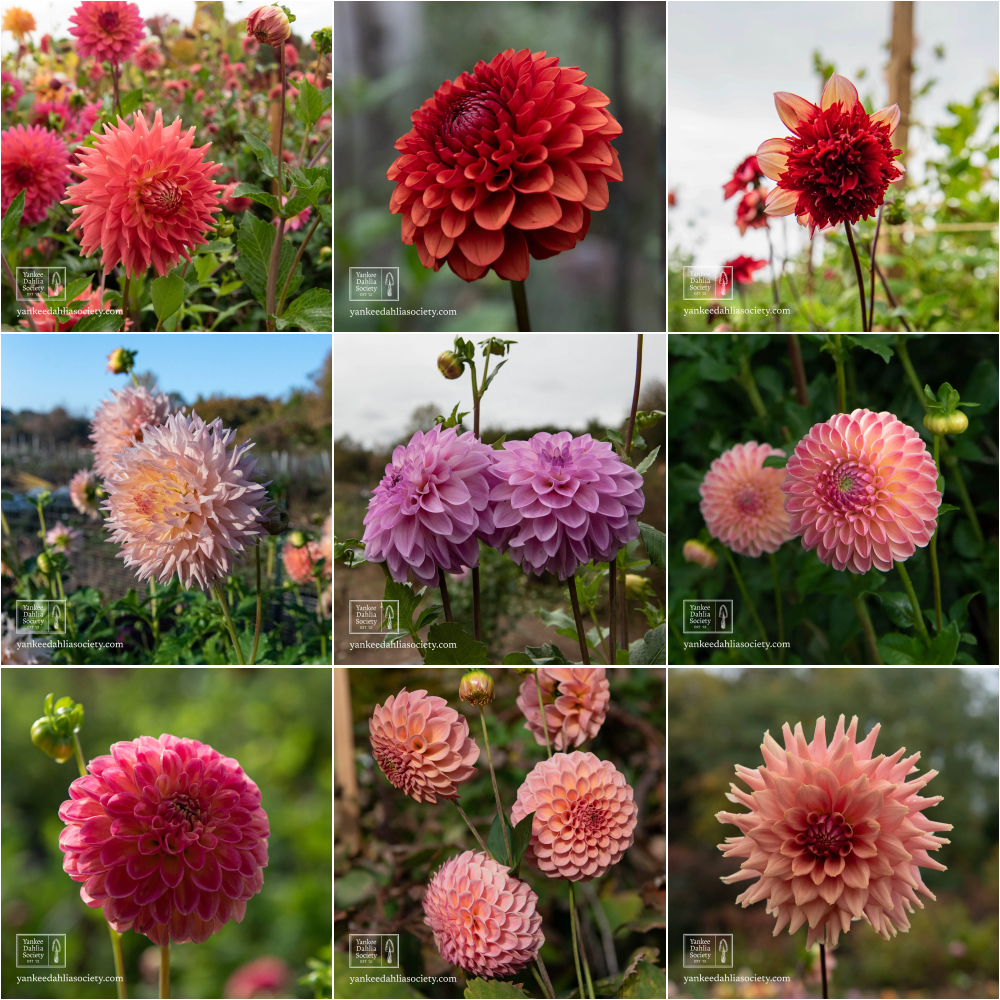
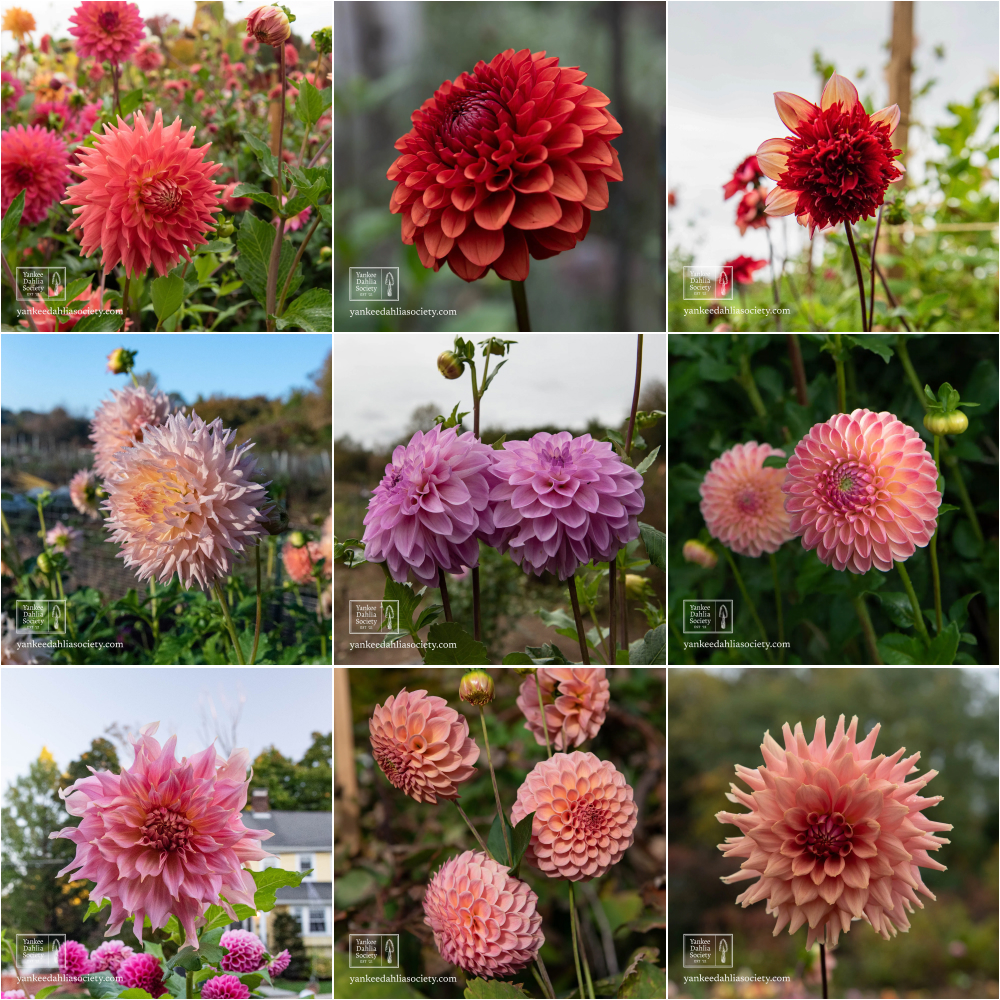
update restock email

Changed region(s): [[0.0, 0.651, 0.341, 1.0]]

diff --git a/202304/20230415_restock-sale/index.html b/202304/20230415_restock-sale/index.html
@@ -415,8 +415,8 @@
                                   <em>
                                     Displayed from top left: Amelia Jay, Brown
                                     Sugar, Gitty Up, Hapet Champagne, Jowey
-                                    Lunel, L.A.T.E., NTAC Mai Li, Rock Run
-                                    Ashley, Terracotta
+                                    Lunel, L.A.T.E., Penhill Watermelon, Rock
+                                    Run Ashley, Terracotta
                                   </em>
                                 </small>
                               </p>
